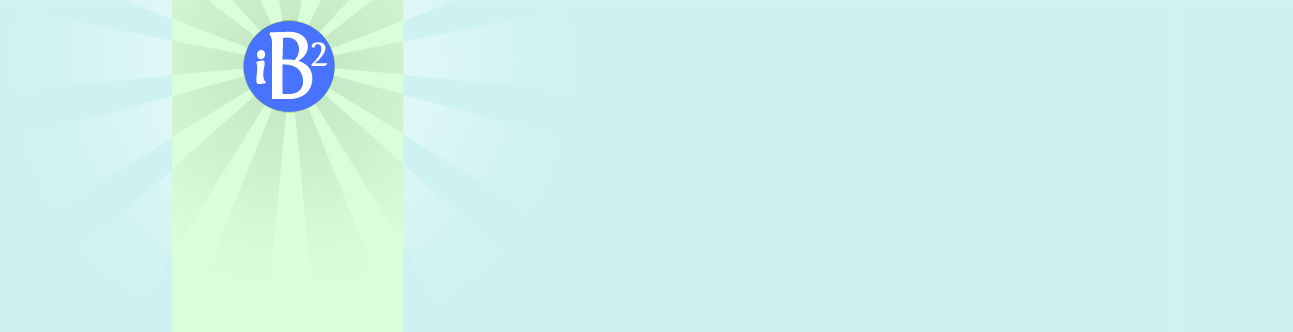
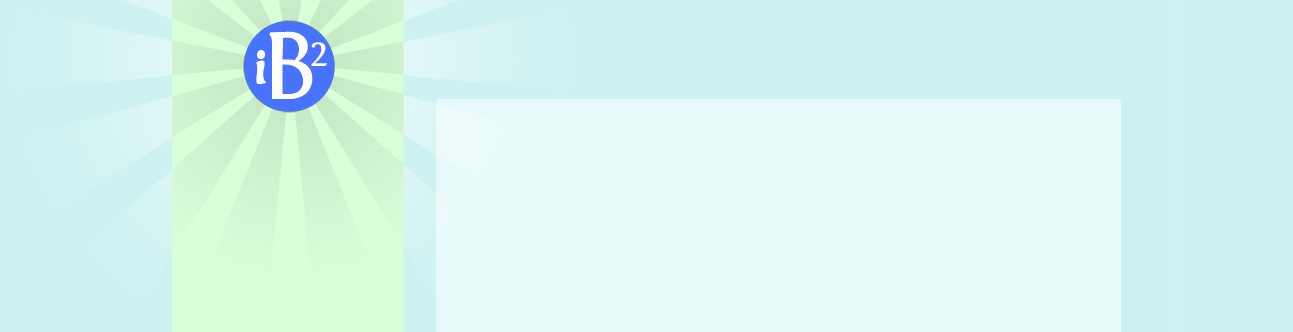
layout fix. God, I hate CSS.

diff --git a/public/stylesheets/screen.css b/public/stylesheets/screen.css
@@ -651,50 +651,53 @@ select:focus { border: 1px solid #666; }
 /* line 40, ../../../../../../opt/local/lib/ruby/gems/1.8/gems/chriseppstein-compass-0.6.6/frameworks/blueprint/stylesheets/blueprint/modules/_form.sass */
 textarea { width: 390px; height: 250px; padding: 5px; }
 
-/* line 9, ../../app/stylesheets/screen.sass */
+/* line 13, ../../app/stylesheets/screen.sass */
 p, li, h1, h2, h3, h4, h5, h6, input { color: #444; }
 
-/* line 12, ../../app/stylesheets/screen.sass */
+/* line 16, ../../app/stylesheets/screen.sass */
 h3 { font-size: 24px; }
 
-/* line 15, ../../app/stylesheets/screen.sass */
+/* line 19, ../../app/stylesheets/screen.sass */
 html { background: url(/images/html_back.png) top center repeat-y #cef2f2; height: 100%; }
 
-/* line 19, ../../app/stylesheets/screen.sass */
-body { background: url(/images/leftpanel-top.png) top center no-repeat; height: 100%; }
-
 /* line 23, ../../app/stylesheets/screen.sass */
-#page { width: 950px; margin: 0 auto; overflow: hidden; display: inline-block; height: 100%; }
+body { background: url(/images/leftpanel-top.png) top center no-repeat; }
+
+/* line 26, ../../app/stylesheets/screen.sass */
+#footer { clear: both; }
+
+/* line 29, ../../app/stylesheets/screen.sass */
+#page { width: 950px; margin: 0 auto; overflow: hidden; display: inline-block; }
 /* line 5, ../../../../../../opt/local/lib/ruby/gems/1.8/gems/chriseppstein-compass-0.6.6/frameworks/compass/stylesheets/compass/utilities/general/_hacks.sass */
 #page { display: block; }
-/* line 26, ../../app/stylesheets/screen.sass */
+/* line 31, ../../app/stylesheets/screen.sass */
 #page #leftpanel { display: inline; float: left; margin-right: 10px; width: 230px; padding-right: 40px; }
 /* line 97, ../../../../../../opt/local/lib/ruby/gems/1.8/gems/chriseppstein-compass-0.6.6/frameworks/blueprint/stylesheets/blueprint/modules/_grid.sass */
 * html #page #leftpanel { overflow-x: hidden; }
-/* line 29, ../../app/stylesheets/screen.sass */
-#page #mainpanel { display: inline; float: left; margin-right: 0; width: 670px; height: 100%; }
+/* line 34, ../../app/stylesheets/screen.sass */
+#page #mainpanel { display: inline; float: left; margin-right: 0; width: 670px; }
 /* line 97, ../../../../../../opt/local/lib/ruby/gems/1.8/gems/chriseppstein-compass-0.6.6/frameworks/blueprint/stylesheets/blueprint/modules/_grid.sass */
 * html #page #mainpanel { overflow-x: hidden; }
-/* line 32, ../../app/stylesheets/screen.sass */
-#page #mainpanel #content { background: #e8f9f9; height: 100%; padding: 36px 45px 0 45px; clear: both; }
-/* line 38, ../../app/stylesheets/screen.sass */
-#page #mainpanel #header h1 { overflow: hidden; height: 48px; width: 238px; margin: 0; background-image: url(/images/title_iboflavin_beta.png); background-position: top left; background-repeat: no-repeat; position: relative; text-indent: -9000px; float: left; margin: 44px 0 5px 0; }
+/* line 36, ../../app/stylesheets/screen.sass */
+#page #mainpanel #content { clear: both; padding: 36px 50px 0 40px; }
+/* line 40, ../../app/stylesheets/screen.sass */
+#page #mainpanel #header h1 { overflow: hidden; height: 48px; width: 238px; margin: 0; background-image: url(/images/title_iboflavin_beta.png); background-position: top left; background-repeat: no-repeat; position: relative; text-indent: -9000px; float: left; margin: 44px 0 5px -10px; }
 /* line 12, ../../app/stylesheets/_image-replacement.sass */
 #page #mainpanel #header h1 a { display: block; height: 100%; width: 100%; }
 /* line 16, ../../app/stylesheets/_image-replacement.sass */
 #page #mainpanel #header h1 a span { display: block; height: 100%; width: 100%; position: absolute; top: 0; left: 0; cursor: pointer; }
-/* line 42, ../../app/stylesheets/screen.sass */
+/* line 44, ../../app/stylesheets/screen.sass */
 #page #mainpanel #header h2 { overflow: hidden; height: 63px; width: 101px; margin: 0; background-image: url(/images/twitter.png); background-position: top left; background-repeat: no-repeat; position: relative; text-indent: -9000px; float: right; top: 40px; }
 /* line 12, ../../app/stylesheets/_image-replacement.sass */
 #page #mainpanel #header h2 a { display: block; height: 100%; width: 100%; }
 /* line 16, ../../app/stylesheets/_image-replacement.sass */
 #page #mainpanel #header h2 a span { display: block; height: 100%; width: 100%; position: absolute; top: 0; left: 0; cursor: pointer; }
-/* line 46, ../../app/stylesheets/screen.sass */
+/* line 48, ../../app/stylesheets/screen.sass */
 #page #mainpanel #cloud { background: url(/images/cloud.png) top left no-repeat; position: absolute; top: 7px; height: 90px; width: 707px; margin-left: -100px; }
-/* line 53, ../../app/stylesheets/screen.sass */
+/* line 55, ../../app/stylesheets/screen.sass */
 #page #mainpanel #cloud div { background: url(/images/cloudfade.png) top right no-repeat; position: absolute; height: 90px; width: 707px; }
 
-/* line 60, ../../app/stylesheets/screen.sass */
+/* line 62, ../../app/stylesheets/screen.sass */
 #thequestion h3 { text-align: right; margin-bottom: 0; }
-/* line 63, ../../app/stylesheets/screen.sass */
+/* line 65, ../../app/stylesheets/screen.sass */
 #thequestion input.text { width: 567px; height: 36px; font-size: 24px; }

diff --git a/app/stylesheets/screen.sass b/app/stylesheets/screen.sass
@@ -6,6 +6,10 @@
 
 +blueprint
 
+=full-height
+  :padding-bottom 32767px
+  :margin-bottom -32767px
+
 p, li, h1, h2, h3, h4, h5, h6, input
   :color #444
 
@@ -18,29 +22,27 @@ html
 
 body
   :background url(/images/leftpanel-top.png) top center no-repeat
-  :height 100%
+
+#footer
+  :clear both
 
 #page
   +container
-  :height 100%
   #leftpanel
     +column(6)
     +append(1)
   #mainpanel
     +column(17,true)
-    :height 100%
     #content
-      :background #e8f9f9
-      :height 100%
-      :padding 36px 45px 0 45px
       :clear both
+      :padding 36px 50px 0 40px
     #header 
       h1
-        +imagereplacement(title_iboflavin_beta.png, 48px, 238px)
+        +imagereplacement("title_iboflavin_beta.png", 48px, 238px)
         :float left
-        :margin 44px 0 5px 0
+        :margin 44px 0 5px -10px
       h2
-        +imagereplacement(twitter.png, 63px, 101px)
+        +imagereplacement("twitter.png", 63px, 101px)
         :float right
         :top 40px
     #cloud
